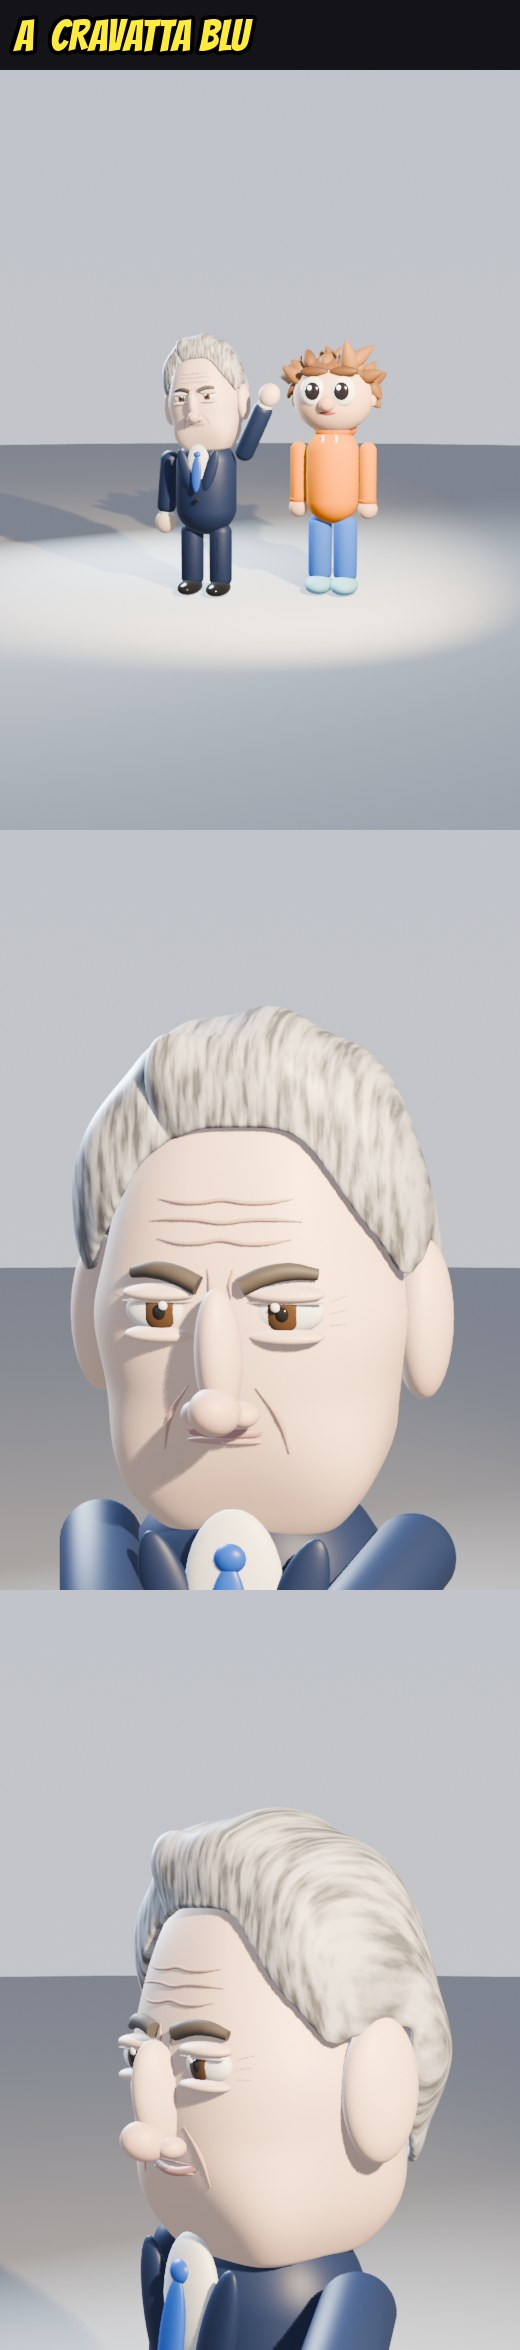
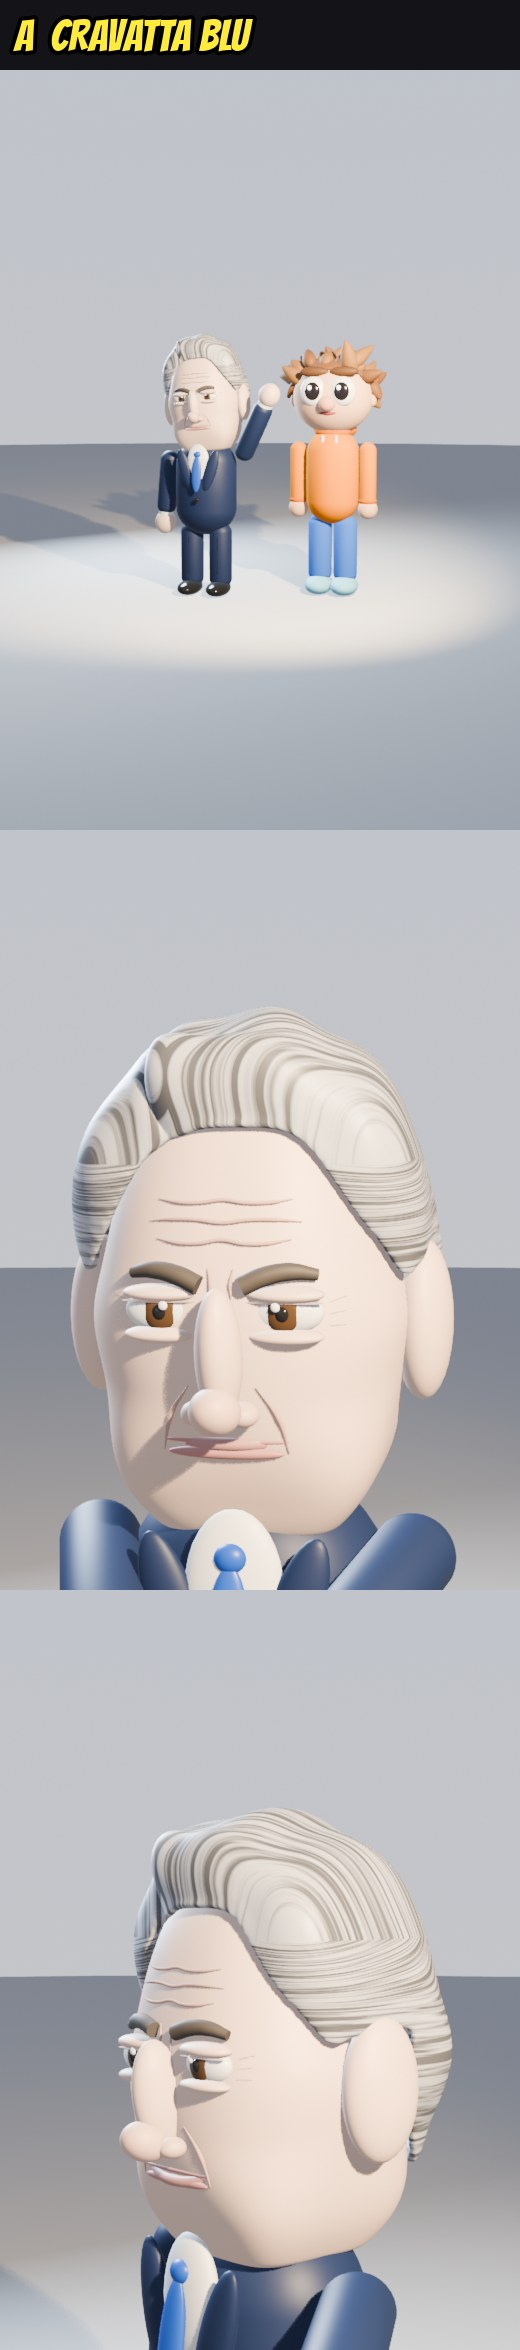
Admin World: ciocche dai due lati della riga, bocca piu' grande
Claude-Session: https://claude.ai/code/session_015hqBpgDEXA74pC6SnJTGNZ

diff --git a/risorse_pippo_tumbo/scripts/admin_world.py b/risorse_pippo_tumbo/scripts/admin_world.py
@@ -26,7 +26,7 @@ def mats(stile='A'):
     M = dict(pelle=m('pelle', (0.95, 0.7, 0.58), rough=0.5), pelle_s=m('pelle_s', (0.88, 0.6, 0.5), rough=0.5), ruga=m('ruga', (0.66, 0.42, 0.35), rough=0.7),
              capelli=_argento(), sopr=m('sopr', (0.1, 0.085, 0.075), rough=0.6), iride=m('iride', (0.11, 0.06, 0.03), rough=0.25),
              bianco=m('bianco', (0.97, 0.97, 0.97), rough=0.3), nero=m('nero', (0.02, 0.02, 0.02), rough=0.15), bocca=m('bocca', (0.6, 0.32, 0.3), rough=0.45),
-             labbro=m('labbro', (0.72, 0.44, 0.4), rough=0.45), dentro=m('dentro', (0.16, 0.01, 0.03), rough=0.5), lingua=m('lingua', (0.95, 0.35, 0.40), rough=0.45),
+             labbro=m('labbro', (0.62, 0.3, 0.28), rough=0.45), dentro=m('dentro', (0.16, 0.01, 0.03), rough=0.5), lingua=m('lingua', (0.95, 0.35, 0.40), rough=0.45),
              scarpe=m('scarpe', (0.02, 0.02, 0.02), rough=0.15), camicia=m('camicia', (0.97, 0.97, 0.96), rough=0.5), pochette=m('pochette', (0.98, 0.98, 0.97), rough=0.45),
              giacca=m('giacca', (0.02, 0.035, 0.1), rough=0.5), panta=m('panta', (0.02, 0.035, 0.1), rough=0.55))
     M['cravatta'] = m('cravatta' + stile, {'A': (0.03, 0.12, 0.6), 'B': (0.12, 0.3, 0.55), 'C': (0.04, 0.1, 0.45)}[stile], rough=0.4)
@@ -34,15 +34,27 @@ def mats(stile='A'):
 
 
 def _argento():
-    """grigio-argento con le ciocche piu' scure, pettinato all'indietro (foto di riferimento dell'autore, 22 nov): striature lunghe dalla fronte alla nuca"""
+    """grigio-argento con le ciocche piu' scure (foto dell'autore): le ciocche partono dalla riga (a sinistra di chi guarda) e vanno
+    in versi opposti dai due lati, sempre un po' all'indietro"""
     if 'ADM_capelli' in bpy.data.materials: return bpy.data.materials['ADM_capelli']
     m = bpy.data.materials.new('ADM_capelli'); m.use_nodes = True; nt = m.node_tree; N = nt.nodes; L = nt.links
     bs = N['Principled BSDF']; bs.inputs['Roughness'].default_value = 0.45
-    tc = N.new('ShaderNodeTexCoord'); mp = N.new('ShaderNodeMapping'); mp.inputs['Scale'].default_value = (55.0, 4.0, 10.0)    # striature lungo y (all'indietro)
-    L.new(tc.outputs['Object'], mp.inputs['Vector'])
-    nz = N.new('ShaderNodeTexNoise'); nz.inputs['Scale'].default_value = 1.0; nz.inputs['Detail'].default_value = 6.0; L.new(mp.outputs['Vector'], nz.inputs['Vector'])
+    tc = N.new('ShaderNodeTexCoord'); sp = N.new('ShaderNodeSeparateXYZ'); L.new(tc.outputs['Object'], sp.inputs[0])
+    def op(o, a, b):
+        n = N.new('ShaderNodeMath'); n.operation = o
+        if isinstance(a, float): n.inputs[0].default_value = a
+        else: L.new(a, n.inputs[0])
+        if isinstance(b, float): n.inputs[1].default_value = b
+        else: L.new(b, n.inputs[1])
+        return n.outputs[0]
+    wt = op('SUBTRACT', sp.outputs['Y'], op('MULTIPLY', op('ABSOLUTE', op('ADD', sp.outputs['X'], 0.13), 0.0), 0.8))   # sopra: a V dalla riga, versi opposti
+    mr = N.new('ShaderNodeMapRange'); mr.clamp = True; mr.inputs['From Min'].default_value = 0.2; mr.inputs['From Max'].default_value = 0.38; L.new(sp.outputs['Z'], mr.inputs['Value'])
+    top = mr.outputs['Result']                                                 # sui lati le ciocche vanno dritte all'indietro
+    w = op('ADD', op('MULTIPLY', wt, top), op('MULTIPLY', sp.outputs['Z'], op('SUBTRACT', 1.0, top)))
+    cb = N.new('ShaderNodeCombineXYZ'); L.new(op('MULTIPLY', w, 70.0), cb.inputs['X']); L.new(op('MULTIPLY', sp.outputs['X'], 2.5), cb.inputs['Y']); L.new(op('MULTIPLY', sp.outputs['Y'], 2.5), cb.inputs['Z'])
+    nz = N.new('ShaderNodeTexNoise'); nz.inputs['Scale'].default_value = 1.0; nz.inputs['Detail'].default_value = 6.0; L.new(cb.outputs['Vector'], nz.inputs['Vector'])
     cr = N.new('ShaderNodeValToRGB'); el = cr.color_ramp.elements
-    el[0].position = 0.38; el[0].color = (0.16, 0.16, 0.17, 1); el[1].position = 0.6; el[1].color = (0.62, 0.62, 0.66, 1)
+    el[0].position = 0.43; el[0].color = (0.13, 0.13, 0.14, 1); el[1].position = 0.56; el[1].color = (0.6, 0.6, 0.64, 1)
     L.new(nz.outputs['Fac'], cr.inputs['Fac']); L.new(cr.outputs['Color'], bs.inputs['Base Color'])
     bp = N.new('ShaderNodeBump'); bp.inputs['Strength'].default_value = 0.35; L.new(nz.outputs['Fac'], bp.inputs['Height']); L.new(bp.outputs['Normal'], bs.inputs['Normal'])
     return m
@@ -187,16 +199,16 @@ def admin_world(coll, stile='A', M=None, scala=SCALA):
     for z_, w_, o_ in ((0.22, 0.15, 0.005), (0.265, 0.17, -0.004), (0.305, 0.15, 0.004)):        # tre rughe marcate sulla fronte
         _ruga(coll, head, M, bvh, 'ADM_RugaFronte', [(-w_ + 2 * w_ * k / 6, z_ + o_ * math.cos(k * 2.1)) for k in range(7)], 0.0045)
     # bocca: labbra ben disegnate e simmetriche (curva + labbro di sotto), bocca a D col bordo quando parla
-    my = _sulla_faccia(bvh, 0, -0.2, 0.004)[1]
-    cu = bpy.data.curves.new('ADM_BoccaCurva', 'CURVE'); cu.dimensions = '3D'; cu.bevel_depth = 0.012; cu.bevel_resolution = 4; cu.use_fill_caps = True
-    sp = cu.splines.new('BEZIER'); sp.bezier_points.add(2); base = [(-0.14, my + 0.04, -0.19), (0, my - 0.0, -0.2), (0.14, my + 0.04, -0.19)]   # bocca grande, labbra sottili
+    my = _sulla_faccia(bvh, 0, -0.225, 0.004)[1]
+    cu = bpy.data.curves.new('ADM_BoccaCurva', 'CURVE'); cu.dimensions = '3D'; cu.bevel_depth = 0.015; cu.bevel_resolution = 4; cu.use_fill_caps = True
+    sp = cu.splines.new('BEZIER'); sp.bezier_points.add(2); base = [(-0.2, my + 0.075, -0.21), (0, my - 0.0, -0.226), (0.2, my + 0.075, -0.21)]   # bocca molto grande, labbra sottili
     for bp, co in zip(sp.bezier_points, base): bp.co = co; bp.handle_left_type = bp.handle_right_type = 'AUTO'
     mo = bpy.data.objects.new('ADM_Bocca', cu); mo.parent = head; coll.objects.link(mo); mo.data.materials.append(M['bocca'])
-    S('LabbroSotto', 'sphere', (0, my + 0.006, -0.214), (0.085, 0.012, 0.009), mo, M['labbro'])                      # sparisce con la curva quando parla
-    S('LabbroSopra', 'sphere', (0, my + 0.008, -0.192), (0.095, 0.008, 0.005), mo, M['labbro'])
+    S('LabbroSotto', 'sphere', (0, my + 0.008, -0.242), (0.13, 0.016, 0.015), mo, M['labbro'])                      # sparisce con la curva quando parla
+    S('LabbroSopra', 'sphere', (0, my + 0.01, -0.216), (0.14, 0.012, 0.008), mo, M['labbro'])
     R['mouth_curve'] = cu; R['mouth_base'] = base; R['mouth_obj'] = mo; R['mouth_y'] = my
-    ap = R['mouth_open'] = E('BoccaAperta', (0, my + 0.005, -0.21), head)
-    S('Labbra', 'sphere', (0, 0.008, 0), (0.16, 0.03, 0.08), ap, M['labbro']); S('BoccaDentro', 'sphere', (0, 0, 0), (0.142, 0.035, 0.066), ap, M['dentro'])
+    ap = R['mouth_open'] = E('BoccaAperta', (0, my + 0.005, -0.235), head)
+    S('Labbra', 'sphere', (0, 0.008, 0), (0.21, 0.03, 0.085), ap, M['labbro']); S('BoccaDentro', 'sphere', (0, 0, 0), (0.19, 0.035, 0.07), ap, M['dentro'])
     S('Lingua', 'sphere', (0, -0.01, -0.034), (0.065, 0.026, 0.026), ap, M['lingua']); S('Denti', 'sphere', (0, -0.012, 0.043), (0.085, 0.028, 0.018), ap, M['bianco'])
     ap.scale = (0.001,) * 3
     # braccia, gambe, scarpe lucide
@@ -233,7 +245,7 @@ def faccia(R, f, brow=0.0, brow_lift=0.0, smile=0.0, mouth_open=0.0, look=(0.0, 
     if mouth_open <= 0.02: ap.scale = (0.001,) * 3; mo.scale = (1, 1, 1)
     else:
         sz = 0.3 + 0.6 * mouth_open                                          # bocca aperta piu' piccola e bassa: non tocca il naso
-        ap.location = (0, R['mouth_y'] + 0.005, -0.215 - 0.012 * mouth_open - 0.01 * smile); ap.scale = (0.6 + 0.25 * mouth_open + 0.1 * max(0.0, smile), 1.0, sz * (1.0 - 0.08 * max(0.0, smile))); mo.scale = (0.001,) * 3
+        ap.location = (0, R['mouth_y'] + 0.005, -0.24 - 0.012 * mouth_open - 0.01 * smile); ap.scale = (0.6 + 0.25 * mouth_open + 0.1 * max(0.0, smile), 1.0, sz * (1.0 - 0.08 * max(0.0, smile))); mo.scale = (0.001,) * 3
     _k(ap, 'scale', f); _k(ap, 'location', f); _k(mo, 'scale', f)
 
 
